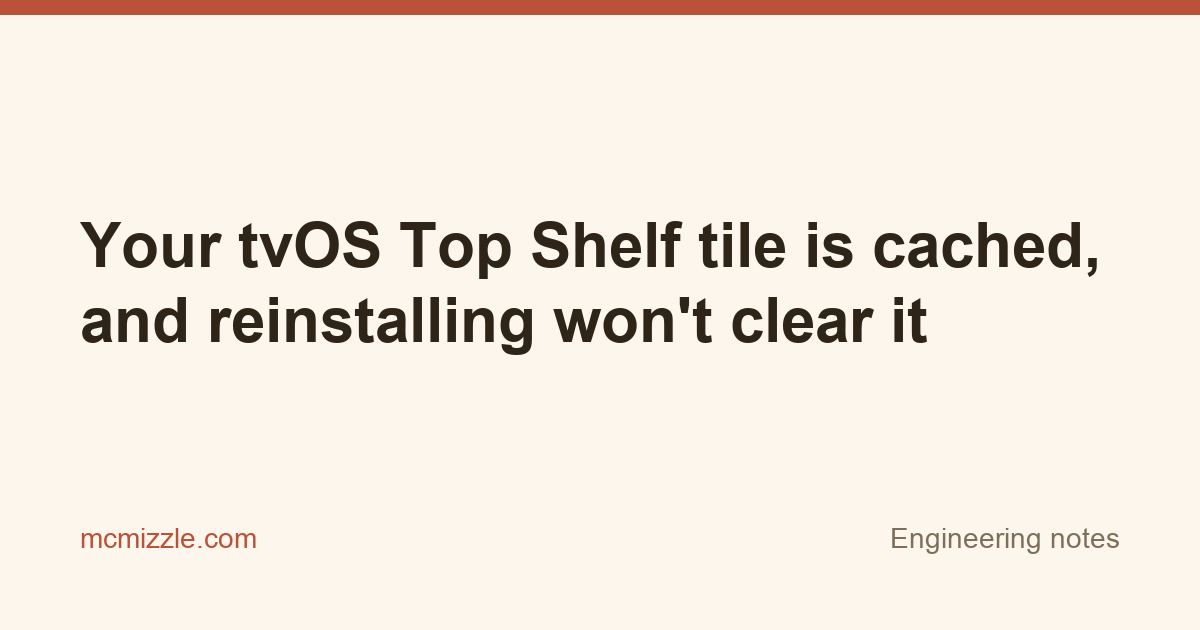
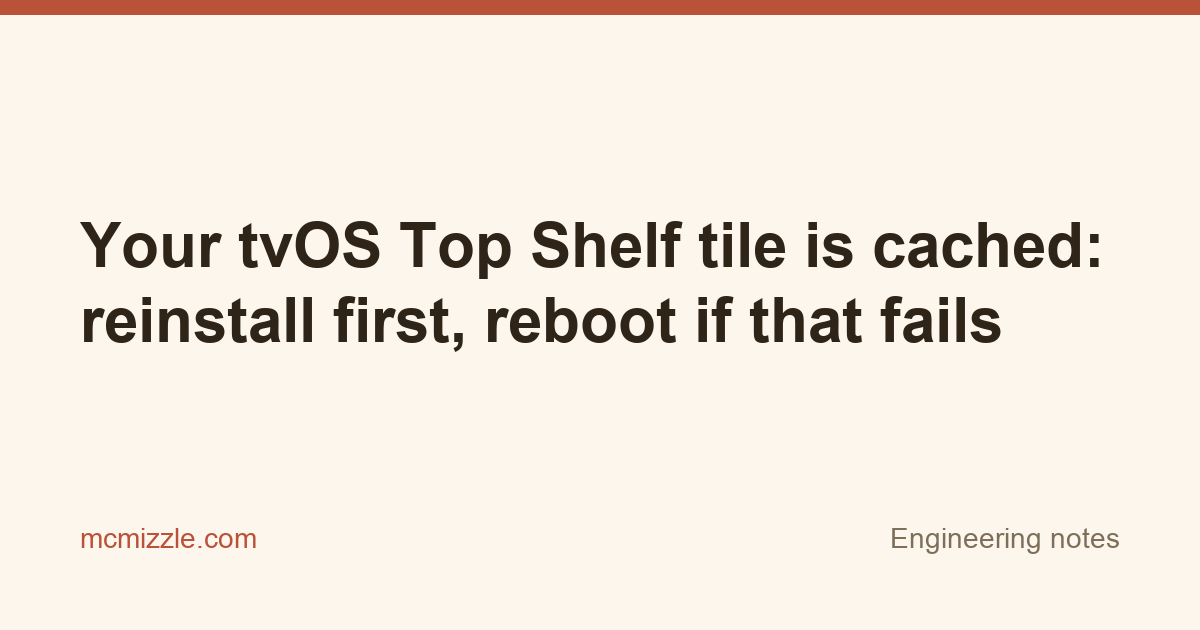
Sync from source@fdc3cf8
Top Shelf post: retitle to the current answer; POST-17 headline rule (#209) (#214)

* Top Shelf post: retitle to the current answer; rule for headline-reversing corrections (POST-17, #209)

* Sitemap: regenerate after the Top Shelf retitle (SM-3)

---------

Changed region(s): [[0.0617, 0.4524, 0.8325, 0.573], [0.8942, 0.3619, 0.925, 0.3921]]

diff --git a/blog/tvos-top-shelf-stale-cache/index.html b/blog/tvos-top-shelf-stale-cache/index.html
@@ -3,7 +3,7 @@
 <head>
 <meta charset="UTF-8">
 <meta name="viewport" content="width=device-width, initial-scale=1">
-<title>Your tvOS Top Shelf tile is cached, and reinstalling won't clear it — McMizzle</title>
+<title>Your tvOS Top Shelf tile is cached: reinstall first, reboot if that fails — McMizzle</title>
 <meta name="description" content="The Top Shelf drew a placeholder after the code was correct: the system caches the rendered tile and dedupes on content. On tvOS 27 a reinstall clears it.">
 <link rel="canonical" href="https://mcmizzle.com/blog/tvos-top-shelf-stale-cache/">
 <link rel="alternate" type="application/rss+xml" title="McMizzle Blog" href="https://mcmizzle.com/blog/feed.xml">
@@ -14,7 +14,7 @@
 <meta name="theme-color" media="(prefers-color-scheme: dark)" content="#201a13">
 <meta property="og:type" content="article">
 <meta property="og:url" content="https://mcmizzle.com/blog/tvos-top-shelf-stale-cache/">
-<meta property="og:title" content="Your tvOS Top Shelf tile is cached, and reinstalling won't clear it — McMizzle">
+<meta property="og:title" content="Your tvOS Top Shelf tile is cached: reinstall first, reboot if that fails — McMizzle">
 <meta property="og:description" content="The Top Shelf drew a placeholder after the code was correct: the system caches the rendered tile and dedupes on content. On tvOS 27 a reinstall clears it.">
 <meta property="og:image" content="https://mcmizzle.com/assets/og-tvos-top-shelf-stale-cache.png">
 <meta property="article:published_time" content="2026-08-03">
@@ -25,7 +25,7 @@
 <header class="site-header"><a class="home-link" href="/">McMizzle</a></header>
 <main>
 <article class="post">
-  <h1>Your tvOS Top Shelf tile is cached, and reinstalling won't clear it</h1>
+  <h1>Your tvOS Top Shelf tile is cached: reinstall first, reboot if that fails</h1>
   <p class="post-meta">Kevin McMahon · August 3, 2026</p>
 
   <p>
@@ -56,8 +56,8 @@
   <p>
     That is an unsatisfying ending, so let me give you the useful version up
     front: <strong>the system caches the rendered Top Shelf tile, dedupes
-    incoming content against that cache, and the cache survives uninstalling
-    and reinstalling your app.</strong> If you have shipped even one build that
+    incoming content against that cache, and on the build I found this on, the
+    cache survived uninstalling and reinstalling your app.</strong> If you have shipped even one build that
     handed the Top Shelf a bad item, you can spend hours looking at correct code
     that produces a wrong screen. Nothing about the symptom suggests a cache,
     which is exactly why it costs so much time.

diff --git a/blog/index.html b/blog/index.html
@@ -182,7 +182,7 @@
     </li>
     <li>
       <p class="post-meta">August 3, 2026</p>
-      <span class="post-title"><a href="/blog/tvos-top-shelf-stale-cache/">Your tvOS Top Shelf tile is cached, and reinstalling won't clear it</a></span>
+      <span class="post-title"><a href="/blog/tvos-top-shelf-stale-cache/">Your tvOS Top Shelf tile is cached: reinstall first, reboot if that fails</a></span>
       <p class="post-summary">
         The tile drew a placeholder for hours after the code was correct again.
         The Home screen caches the rendered tile, dedupes incoming content
